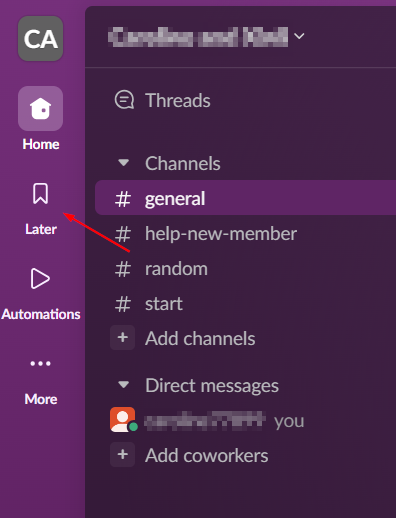
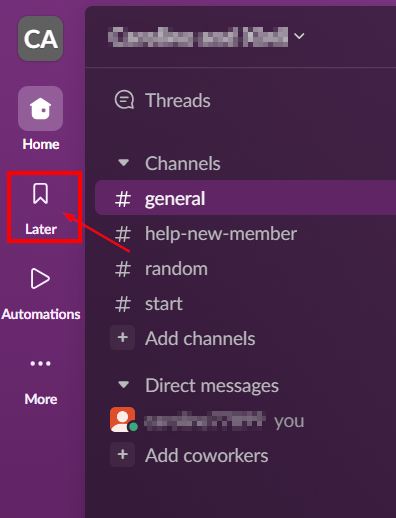
update task2

Changed region(s): [[0.0, 0.3089, 0.2121, 0.4942]]

diff --git a/User_Doc/docs/index.md b/User_Doc/docs/index.md
@@ -7,13 +7,13 @@ Welcome!👋 Let's start to create a new workspace for you and your team with aw
 This documentation is targeted towards the following users:
 
 * New users who are responsible for managing workspace setups
-* Users who are looking for Zoom integration into existing workplace.
+* Users who are looking for Zoom integration into existing workplace
 
 ## Prerequisite Knowledge
 
 The documentation assumes the following:
 
-*
+* User has an email account
 
 ## Workspace Setup and Integration
 
@@ -81,8 +81,24 @@ Good job, now, you successfully creating a new workspace and are able to :
 
 6. In the new popup window, fill out date, time and description. Then click **Save** to save the reminder.
 
-7. Click on Bookmark icon on left of the sidebar menu.  
+7. Click on **Later** icon on left of the sidebar menu.  
 ![later_icon_in_menu](.\images\later_icon_in_menu.png){width="300"}
+
+8. Check if there is a new created reminder in the list. The following picture showcase the successfully setup reminder.  
+![reminder](.\images\reminder.png){width="300"}
+
+9. Hover over the reminder, then click on the complete icon once you have done the task.
+![reminder_complete](.\images\reminder_complete.png){width="300"}
+
+10. Click on More icon to edit or remove if necessary.  
+![reminder_more](.\images\reminder_more.png){width="300"}
+
+#### Conclusion
+
+Now, you successfully creating a Canvas for a channel and a reminder. And you are able to :  
+
+* Showcase the project plan with your teammates  
+* Stay organized and on track by receiving timely reminders for important tasks
 
 ### Integrating ZOOM into Workspace
 
@@ -101,6 +117,8 @@ Good job, now, you successfully creating a new workspace and are able to :
 
 | **Term** |  **Definition**              |
 |------------------------------|--------------------------------------------------|
-| **Workplace** | Slack workspace is where people can work together, connect all their software tools and services, and find the information they need to do their best work.|
-| **Canvas**  | A canvas is a surface built into Slack where you can create and share fully-formatted content.|
+| **Workplace** | Slack workspace is where people can communicate and work together, connect all their software tools and services, and find the information they need to do their best work.|
+| **Canvas**  | A canvas is a surface built into Slack where you can create and share content with all coworkers in a channel.|
 | **Zoom** | Zoom is a communications platform that allows users to connect with video, audio, phone, and chat.|
+| **Channel** | Channels are spaces for all the people, tools, and files you need to get work done in Slack. You can create channels for different teams, topics, and projects to bring order and clarity to work.|
+| **Later** | Messages and files you’ve saved and reminders you’ve set are only visible to you from the Later view.|
